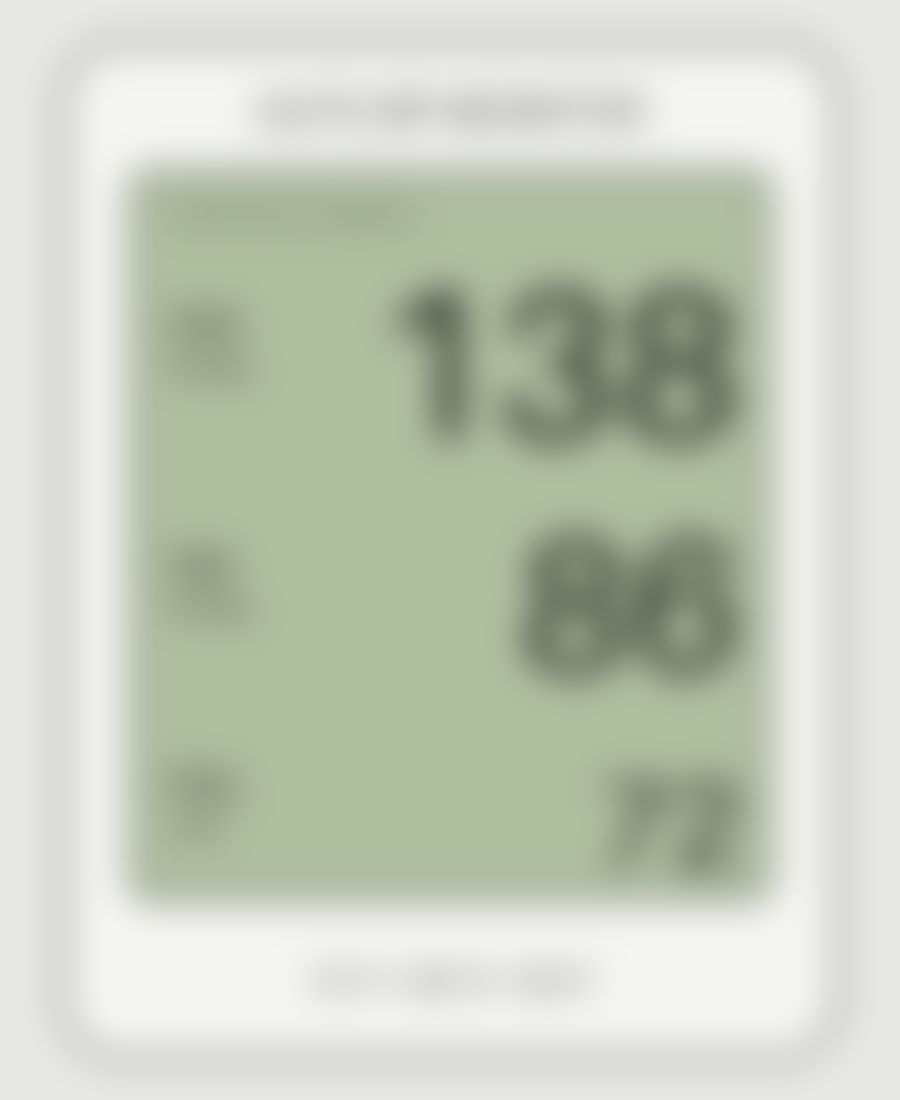
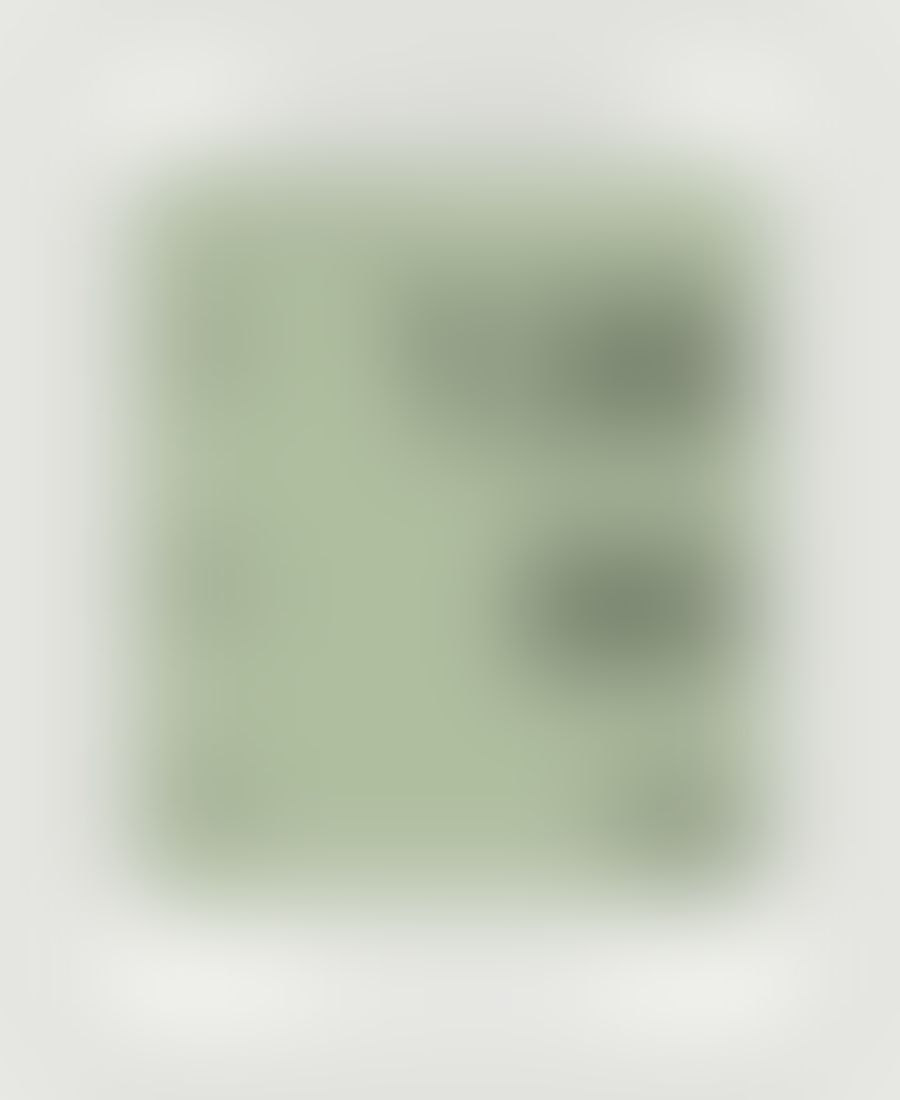
feat(scripts): add reader accuracy test with per-field and overall exact match

diff --git a/scripts/accuracy_test.py b/scripts/accuracy_test.py
@@ -1,0 +1,136 @@
+"""Measure a reader against samples/labels.json: exact-match accuracy per field and overall.
+
+    cd backend
+    uv run python ../scripts/accuracy_test.py                       # mock reader
+    uv run python ../scripts/accuracy_test.py --reader groq         # needs GROQ_API_KEY
+    uv run python ../scripts/accuracy_test.py --reader groq --real-only
+
+"Overall" counts a photo as correct only when every checked field matches. A reader error
+counts as a miss on every field. Label format: samples/README.md.
+"""
+
+import argparse
+import sys
+import time
+from collections import defaultdict
+from pathlib import Path
+from typing import Any
+
+sys.path.insert(0, str(Path(__file__).resolve().parents[1] / "backend"))
+
+from app.config import get_settings  # noqa: E402
+from app.reader import Reader, ReaderError  # noqa: E402
+from app.reader.labels import SAMPLES_DIR, Label, load_labels  # noqa: E402
+from app.reader.schema import ImageInput  # noqa: E402
+
+
+def make_reader(name: str, samples_dir: Path) -> Reader:
+    if name == "mock":
+        from app.reader.mock_reader import MockReader
+
+        return MockReader(samples_dir)
+    if name == "groq":
+        from app.reader.groq_reader import GroqReader
+
+        s = get_settings()
+        # Batch run: waiting a minute for the free-tier rate limit is fine here.
+        return GroqReader(s.groq_api_key, s.groq_vision_model, max_wait=65)
+    raise SystemExit(f"Unknown reader {name!r} (use mock or groq).")
+
+
+def _norm_text(value: Any) -> Any:
+    if not isinstance(value, str):
+        return value
+    text = value.lower().replace(" ", "")
+    return text[:-2] if text.endswith("mg") else text
+
+
+def same(field: str, expected: Any, got: Any) -> bool:
+    if field in ("brand", "strength"):
+        return _norm_text(expected) == _norm_text(got)
+    if isinstance(expected, int | float) and isinstance(got, int | float):
+        return abs(float(expected) - float(got)) < 1e-6
+    return expected == got
+
+
+def evaluate(reader: Reader, labels: list[Label], samples_dir: Path) -> dict[str, Any]:
+    field_hits: dict[str, list[bool]] = defaultdict(list)
+    results = []
+    for label in labels:
+        path = samples_dir / label.file
+        data = path.read_bytes() if path.is_file() else b""
+        image = ImageInput(data=data, filename=label.file)
+        expected = label.meter() if label.kind == "meter" else label.strip()
+        started = time.perf_counter()
+        try:
+            got = reader.read_meter(image) if label.kind == "meter" else reader.read_strip(image)
+            error = None
+        except ReaderError as exc:
+            got, error = None, str(exc)
+        seconds = time.perf_counter() - started
+        misses = []
+        for field in label.checked_fields():
+            want = getattr(expected, field)
+            have = getattr(got, field) if got is not None else "<error>"
+            ok = got is not None and same(field, want, have)
+            field_hits[field].append(ok)
+            if not ok:
+                misses.append((field, want, have))
+        results.append({"file": label.file, "misses": misses, "error": error, "seconds": seconds})
+    return {"fields": dict(field_hits), "results": results}
+
+
+def pct(hits: list[bool]) -> str:
+    return f"{100 * sum(hits) / len(hits):5.1f}% ({sum(hits)}/{len(hits)})" if hits else "n/a"
+
+
+def report(reader_name: str, outcome: dict[str, Any], skipped: list[str]) -> None:
+    results = outcome["results"]
+    print(f"Reader: {reader_name} · photos: {len(results)}")
+    if skipped:
+        print(f"Skipped (file missing): {', '.join(skipped)}")
+    print("\nPer field (exact match):")
+    for field, hits in outcome["fields"].items():
+        print(f"  {field:<14} {pct(hits)}")
+    overall = [not r["misses"] for r in results]
+    print(f"\nOverall (all checked fields right): {pct(overall)}")
+    if results:
+        avg = sum(r["seconds"] for r in results) / len(results)
+        print(f"Average time per photo: {avg:.2f} s")
+    failures = [r for r in results if r["misses"]]
+    if failures:
+        print("\nFailures:")
+        for r in failures:
+            if r["error"]:
+                print(f"  {r['file']}: reader error: {r['error']}")
+                continue
+            detail = "; ".join(f"{f}: expected {w!r}, got {h!r}" for f, w, h in r["misses"])
+            print(f"  {r['file']}: {detail}")
+    else:
+        print("\nNo failures.")
+
+
+def main(argv: list[str] | None = None) -> int:
+    ap = argparse.ArgumentParser(description=__doc__.splitlines()[0])
+    ap.add_argument("--reader", choices=["mock", "groq"], default="mock")
+    ap.add_argument("--samples", type=Path, default=SAMPLES_DIR)
+    ap.add_argument("--real-only", action="store_true", help="skip synthetic_* samples")
+    args = ap.parse_args(argv)
+
+    labels = load_labels(args.samples)
+    if args.real_only:
+        labels = [lb for lb in labels if not lb.synthetic]
+    skipped: list[str] = []
+    if args.reader != "mock":  # a real reader needs the actual photo
+        skipped = [lb.file for lb in labels if not (args.samples / lb.file).is_file()]
+        labels = [lb for lb in labels if lb.file not in skipped]
+    if not labels:
+        print("No samples to test. Add photos and labels: see samples/README.md.")
+        return 1
+    reader = make_reader(args.reader, args.samples)
+    report(args.reader, evaluate(reader, labels, args.samples), skipped)
+    return 0
+
+
+if __name__ == "__main__":
+    sys.exit(main())

diff --git a/backend/tests/test_accuracy_script.py b/backend/tests/test_accuracy_script.py
@@ -1,0 +1,66 @@
+"""scripts/accuracy_test.py: scoring logic and a mock run (no network)."""
+
+import importlib.util
+import json
+from pathlib import Path
+
+from app.reader.mock_reader import MockReader
+from app.reader.schema import ImageInput, MeterReading
+
+SCRIPTS = Path(__file__).resolve().parents[2] / "scripts"
+spec = importlib.util.spec_from_file_location("accuracy_test", SCRIPTS / "accuracy_test.py")
+accuracy = importlib.util.module_from_spec(spec)
+spec.loader.exec_module(accuracy)
+
+
+def test_mock_reader_scores_100_percent_on_the_labels(capsys):
+    assert accuracy.main(["--reader", "mock"]) == 0
+    out = capsys.readouterr().out
+    assert "Overall (all checked fields right): 100.0%" in out
+    assert "No failures." in out
+
+
+def test_real_only_with_no_real_photos_says_how_to_add_them(capsys):
+    assert accuracy.main(["--reader", "mock", "--real-only"]) == 1
+    assert "samples/README.md" in capsys.readouterr().out
+
+
+def test_failures_are_scored_and_listed(tmp_path: Path, capsys):
+    labels = {
+        "samples": [
+            {
+                "file": "bp_a.jpg",
+                "kind": "meter",
+                "expected": {"device_type": "bp", "systolic": 140, "diastolic": 90},
+            },
+            {
+                "file": "strip_a.jpg",
+                "kind": "strip",
+                "expected": {"brand": "Telma", "strength": "40"},
+            },
+        ]
+    }
+    (tmp_path / "labels.json").write_text(json.dumps(labels))
+
+    class OffByOne(MockReader):
+        def read_meter(self, image: ImageInput) -> MeterReading:
+            r = super().read_meter(image)
+            return r.model_copy(update={"systolic": (r.systolic or 0) + 1})
+
+    from app.reader.labels import load_labels
+
+    result = accuracy.evaluate(OffByOne(tmp_path), load_labels(tmp_path), tmp_path)
+    assert result["fields"]["systolic"] == [False]
+    assert result["fields"]["diastolic"] == [True]
+    assert result["fields"]["brand"] == [True]
+    accuracy.report("test", result, [])
+    out = capsys.readouterr().out
+    assert "50.0% (1/2)" in out and "systolic: expected 140, got 141" in out
+
+
+def test_strip_comparison_ignores_case_spaces_and_mg():
+    assert accuracy.same("strength", "40", "40 mg")
+    assert accuracy.same("brand", "Glycomet GP", "glycomet gp")
+    assert not accuracy.same("strength", "40", "80")
+    assert accuracy.same("glucose_value", 6.2, 6.2)
+    assert not accuracy.same("pulse", None, 72)  # a number where none is shown is a miss

diff --git a/scripts/make_synthetic_samples.py b/scripts/make_synthetic_samples.py
@@ -68,7 +68,7 @@ def strip(brand: str, strength: str, generic: str) -> Image.Image:
 
 def main() -> None:
     SAMPLES.mkdir(exist_ok=True)
-    blurry = bp_screen(138, 86, 72).filter(ImageFilter.GaussianBlur(18))
+    blurry = bp_screen(138, 86, 72).filter(ImageFilter.GaussianBlur(48))
     images = {
         "synthetic_bp_normal.jpg": bp_screen(132, 84, 74),
         "synthetic_bp_high.jpg": bp_screen(186, 122, 92),
